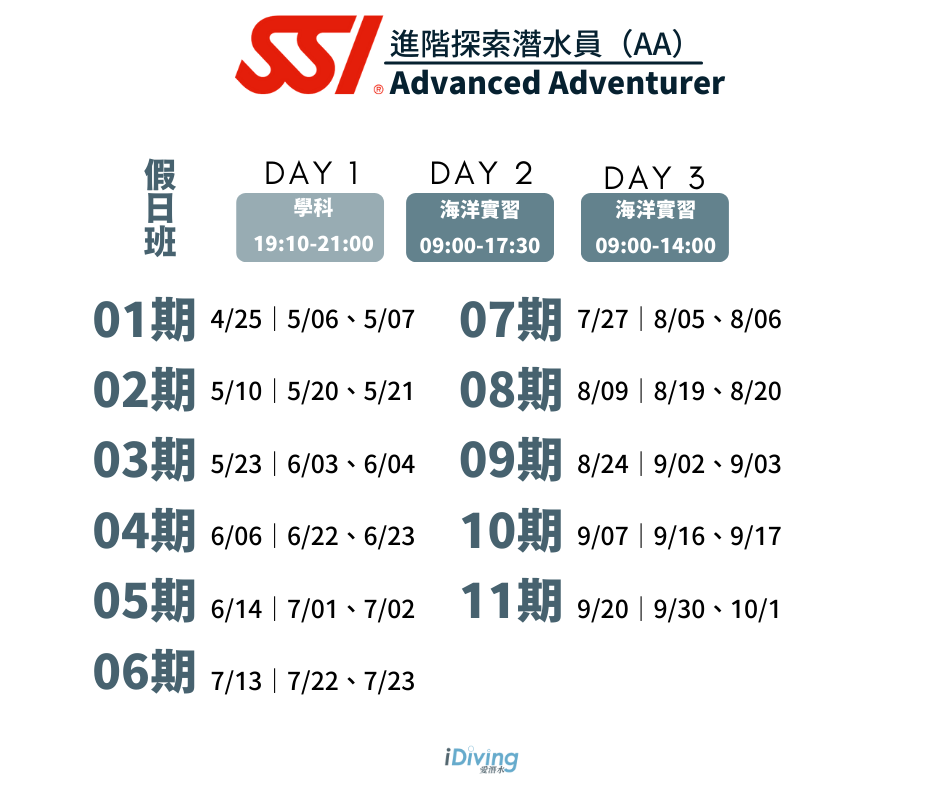
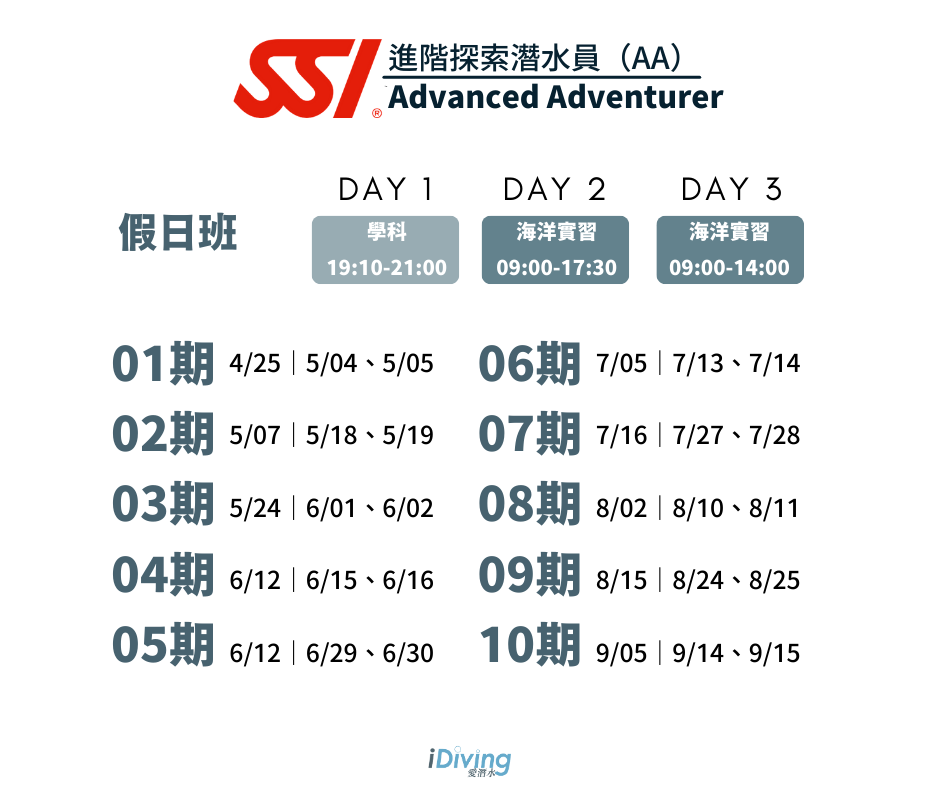
更新水肺AA課程期別圖

diff --git a/src/app/pages/c210/c210.component.html b/src/app/pages/c210/c210.component.html
@@ -153,7 +153,30 @@
                     </tbody>
                 </table>
                 <br>
-                
+                <div id="carouselExampleIndicators" class="carousel slide" data-bs-ride="carousel">
+                    <div class="carousel-indicators">
+                        <button type="button" data-bs-target="#carouselExampleIndicators" data-bs-slide-to="0" class="active" aria-current="true" aria-label="Slide 1"></button>
+                        <button type="button" data-bs-target="#carouselExampleIndicators" data-bs-slide-to="1" aria-label="Slide 2"></button>
+                    </div>
+                    <div class="carousel-inner">
+                        <div class="carousel-item active">
+                            <img src="../../../../assets/Image/Data/AA_Schedule_Weekend.png" class="d-block w-100" alt="...">
+                        </div>
+                        <div class="carousel-item">
+                            <img src="../../../../assets/Image/Data/AA_Schedule_Weekends.png" class="d-block w-100" alt="...">
+                        </div>
+                    </div>
+                    <button class="carousel-control-prev" type="button" data-bs-target="#carouselExampleIndicators" data-bs-slide="prev">
+                        <span class="carousel-control-prev-icon" aria-hidden="true"></span>
+                        <span class="visually-hidden">Previous</span>
+                    </button>
+                    <button class="carousel-control-next" type="button" data-bs-target="#carouselExampleIndicators" data-bs-slide="next">
+                        <span class="carousel-control-next-icon" aria-hidden="true"></span>
+                        <span class="visually-hidden">Next</span>
+                    </button>
+                </div>
+                <br>
+                <!-- 
                 <mdb-carousel class="carousel slide carousel-fade" interval="false" [animation]="'fade'">
                     <mdb-carousel-item *ngFor="let AA_Schedule of AA_Schedule; let i = index">
                         <div class="view">
@@ -161,7 +184,7 @@
                         </div>
                     </mdb-carousel-item>
                 </mdb-carousel>
-                <br>
+                <br> -->
                 
             </div>
             <!-- 進階探險 課程學費 -->
